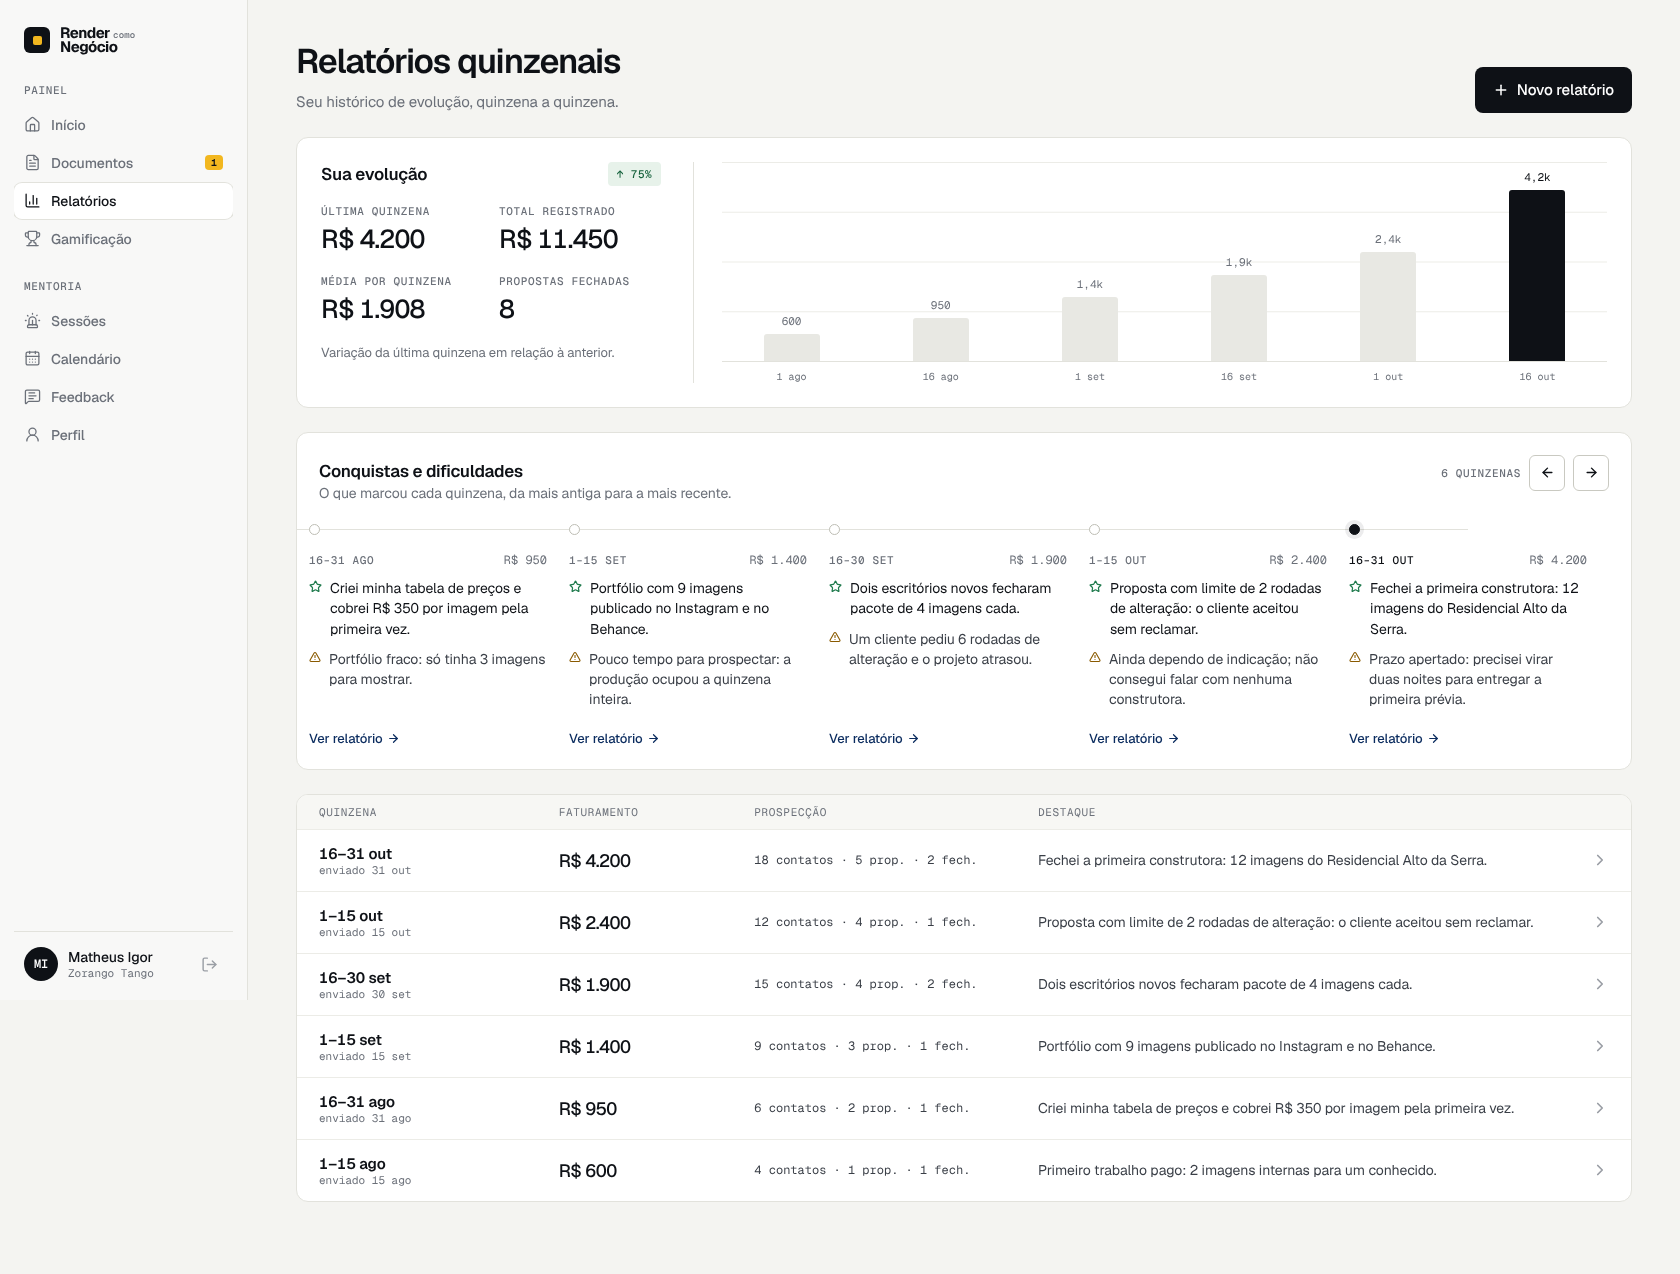
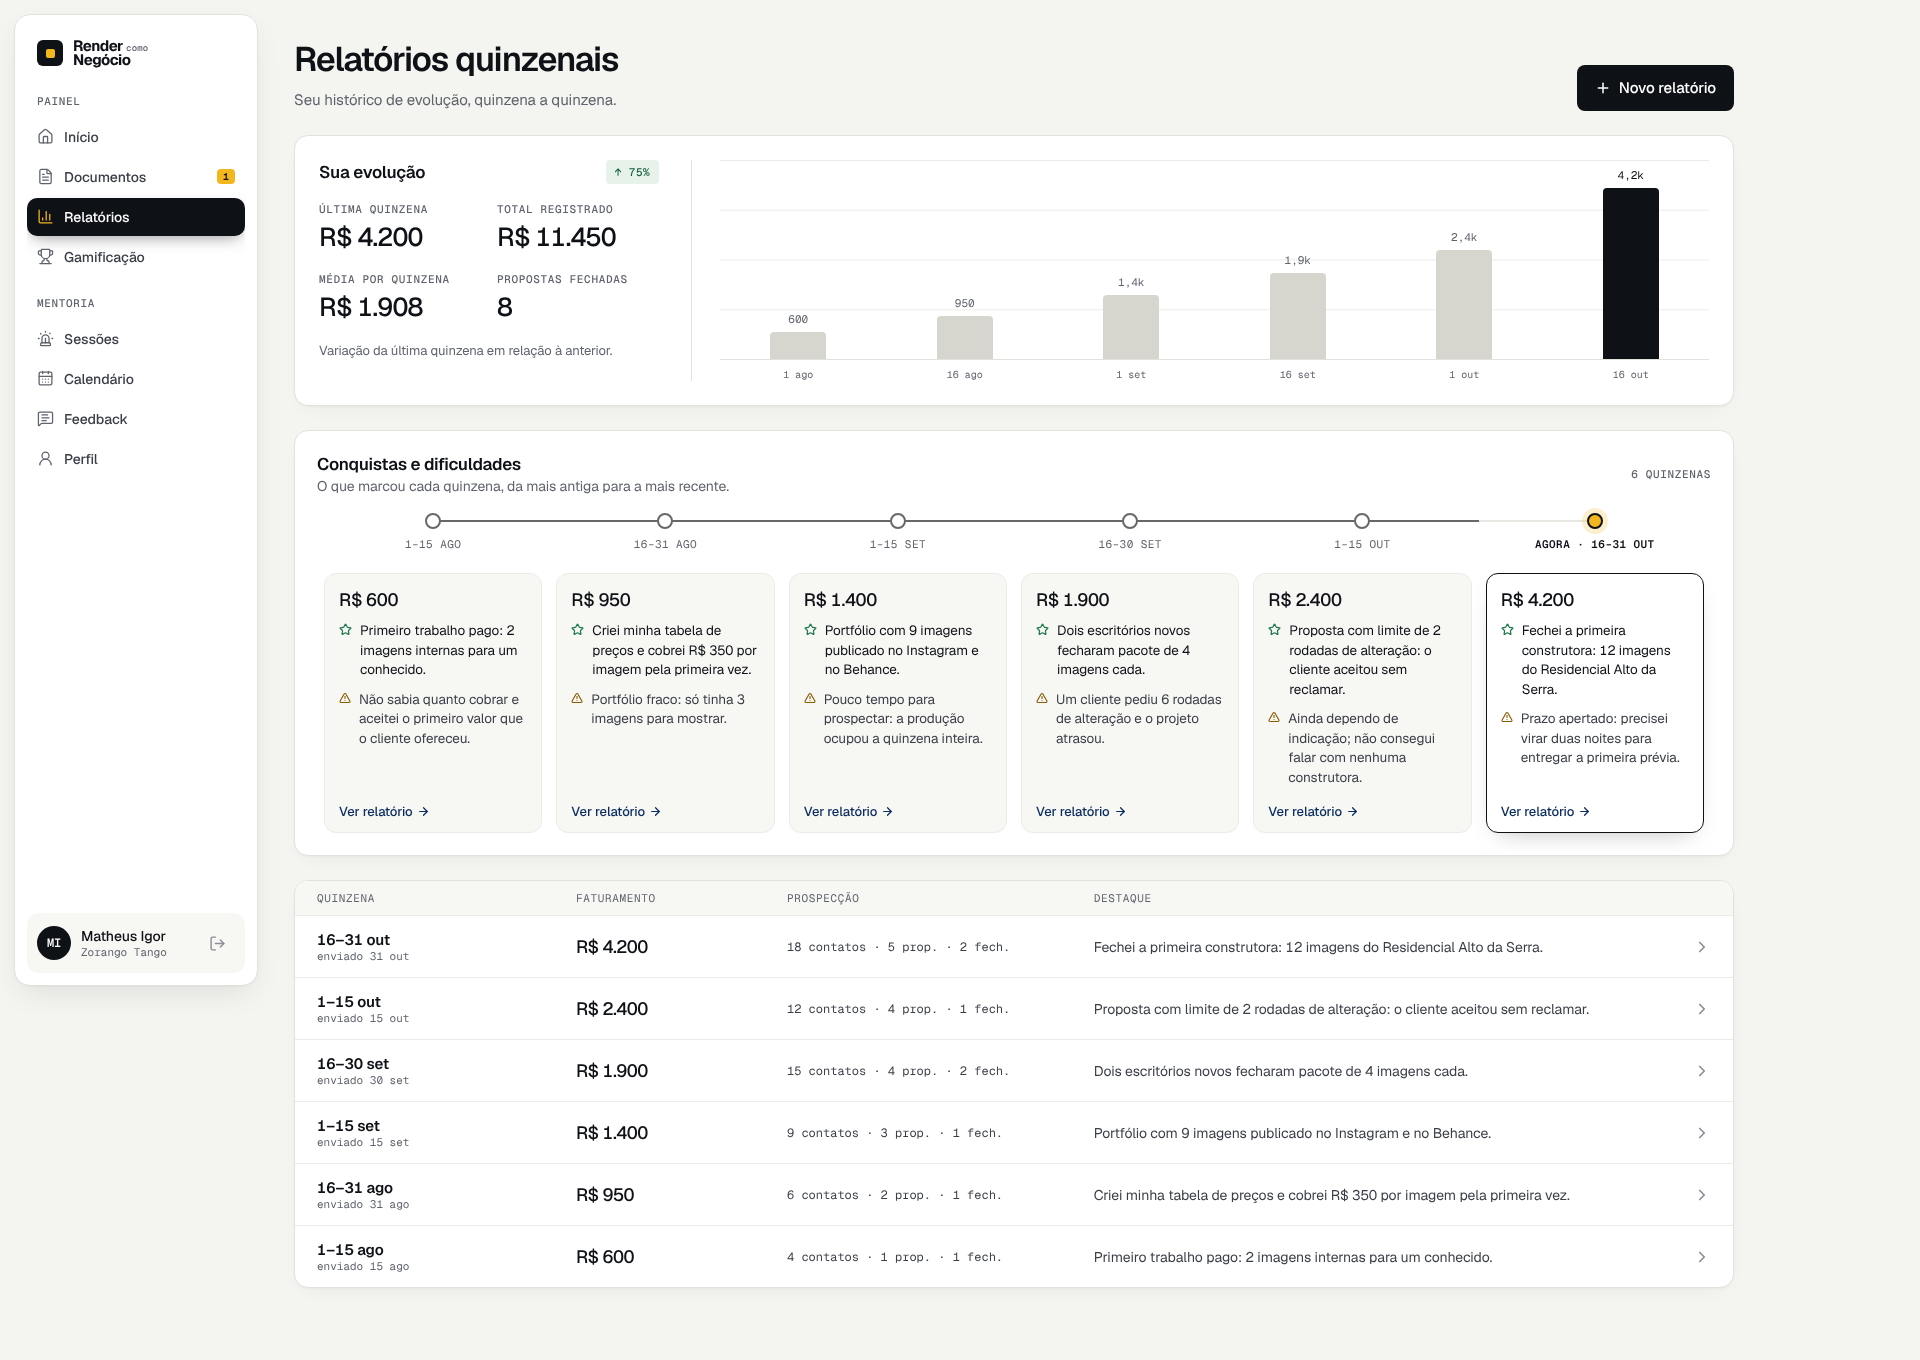
Menu lateral flutuante, cards com profundidade, contraste e nova linha do tempo horizontal
Claude-Session: https://claude.ai/code/session_01X1TqGYnSSrriidCVufAaPq

diff --git a/src/styles.css b/src/styles.css
@@ -26,8 +26,8 @@
 
   --t: #0E1116;
   --t2: #3A3F47;
-  --t3: #6B7079;
-  --t4: #9A9EA5;
+  --t3: #5E636C;
+  --t4: #8A8E96;
 
   --ok: #1E7A4C; --ok-bg: #E7F2EA; --ok-t: #14613B;
   --warn: #8A5A00; --warn-bg: #FBF1D9; --warn-t: #6B4600;
@@ -67,22 +67,27 @@ svg.lucide { flex: none; }
   .app.has-tabbar .page { padding-bottom: 104px; }
 }
 
-/* Menu lateral (computador) */
+/* Menu lateral (computador): painel flutuante, solto das bordas */
 .app.with-sidebar { flex-direction: row; }
 .sidebar {
-  width: 248px; flex: none; position: sticky; top: 0; height: 100vh; display: flex; flex-direction: column; gap: 28px;
-  padding: 22px 14px 16px; border-right: 1px solid var(--line); background: color-mix(in oklab, var(--bg) 60%, #fff);
+  width: 244px; flex: none; position: sticky; top: 14px; align-self: flex-start;
+  height: calc(100vh - 28px); margin: 14px 0 14px 14px;
+  display: flex; flex-direction: column; gap: 26px; padding: 20px 12px 12px;
+  background: #fff; border: 1px solid var(--line); border-radius: 16px;
+  box-shadow: 0 1px 2px rgba(14,17,22,.04), 0 12px 32px -8px rgba(14,17,22,.10);
 }
-.sidenav { display: flex; flex-direction: column; gap: 22px; flex: 1; overflow-y: auto; }
+.sidenav { display: flex; flex-direction: column; gap: 20px; flex: 1; overflow-y: auto; }
 .sidenav-group { display: flex; flex-direction: column; gap: 2px; }
-.sidenav-title { padding: 0 10px 8px; font-size: 10px; color: var(--t4); }
-.sidenav a { display: flex; align-items: center; gap: 10px; padding: 9px 10px; border-radius: var(--r); font-size: 14px; font-weight: 500; color: var(--t3); position: relative; transition: color .15s, background .15s; }
+.sidenav-title { padding: 0 10px 8px; font-size: 10px; color: var(--t3); }
+.sidenav a { display: flex; align-items: center; gap: 10px; padding: 10px 10px; border-radius: 10px; font-size: 14px; font-weight: 500; color: var(--t2); transition: color .15s, background .15s; }
+.sidenav a svg { color: var(--t3); transition: color .15s; }
 .sidenav a:hover { text-decoration: none; color: var(--t); background: var(--alt2); }
-.sidenav a.active { color: var(--t); background: #fff; box-shadow: 0 0 0 1px var(--line); }
-.sidenav a.active::before { content: ''; position: absolute; left: -14px; top: 9px; bottom: 9px; width: 2px; border-radius: 2px; background: var(--ink); }
-.sidebar-user { display: flex; align-items: center; gap: 10px; padding: 12px 6px 0 10px; border-top: 1px solid var(--line); }
+.sidenav a:hover svg { color: var(--t); }
+.sidenav a.active { color: #fff; background: var(--ink); box-shadow: 0 6px 16px -6px rgba(14,17,22,.5); }
+.sidenav a.active svg { color: var(--gold); }
+.sidebar-user { display: flex; align-items: center; gap: 10px; padding: 10px; border-radius: 12px; background: var(--alt); }
 /* Com o menu lateral, o conteúdo ocupa a largura toda */
-.with-sidebar .page { max-width: 1480px; padding: 44px 48px 72px; margin: 0; }
+.with-sidebar .page { max-width: 1520px; padding: 42px 44px 72px 36px; margin: 0; }
 
 /* Barra superior clara, com linha fina */
 .topbar {
@@ -153,7 +158,7 @@ svg.lucide { flex: none; }
 @media (max-width: 760px) { .h-page { font-size: 28px; } }
 
 /* ---------- Superfícies ---------- */
-.card { background: var(--surface); border: 1px solid var(--line); border-radius: var(--r-lg); padding: 20px; }
+.card { background: var(--surface); border: 1px solid var(--line); border-radius: 14px; padding: 20px; box-shadow: 0 1px 2px rgba(14,17,22,.03), 0 8px 24px -12px rgba(14,17,22,.08); }
 .card.tight { border-radius: var(--r-lg); padding: 16px; }
 .card.list { padding: 0 16px; border-radius: var(--r-lg); }
 .dashed { background: transparent; border: 1px dashed var(--b-dash); border-radius: var(--r-lg); padding: 36px 20px; display: flex; flex-direction: column; align-items: center; gap: 8px; text-align: center; }
@@ -169,6 +174,7 @@ a.card:hover, a.card-link:hover { text-decoration: none; border-color: var(--b-b
 
 /* Bloco de destaque: tinta escura com grade técnica sutil */
 .hero {
+  box-shadow: 0 16px 40px -16px rgba(14,17,22,.45);
   position: relative; overflow: hidden; color: #fff; text-decoration: none;
   background-color: var(--ink);
   background-image:
@@ -285,7 +291,7 @@ a.card:hover, a.card-link:hover { text-decoration: none; border-color: var(--b-b
   border-bottom: 1px solid var(--line);
 }
 .evo-col { flex: 1; min-width: 0; height: 100%; display: flex; flex-direction: column; align-items: center; justify-content: flex-end; gap: 6px; }
-.evo-bar { width: 100%; max-width: 56px; border-radius: 3px 3px 0 0; background: var(--alt3); transition: height .4s; }
+.evo-bar { width: 100%; max-width: 56px; border-radius: 4px 4px 0 0; background: #D6D6CE; transition: height .4s; }
 .evo-bar.now { background: var(--ink); }
 @media (max-width: 900px) {
   .evo { grid-template-columns: 1fr; gap: 22px; padding: 20px; }
@@ -306,17 +312,26 @@ a.rep-row:hover { text-decoration: none; background: var(--alt); }
   .rep-row > :nth-child(5) { display: none !important; }
 }
 
-.timeline-h { display: flex; overflow-x: auto; scroll-snap-type: x mandatory; scroll-padding-inline: 22px; padding: 22px 22px 14px; scrollbar-width: thin; }
+.timeline-h { overflow-x: auto; padding: 8px 22px 18px; scrollbar-width: thin; }
 .timeline-h:focus-visible { outline-offset: -2px; }
-.tl-col { flex: 1 0 260px; max-width: 360px; scroll-snap-align: start; display: flex; flex-direction: column; gap: 10px; padding-right: 22px; }
-.tl-rail { position: relative; height: 12px; margin-bottom: 6px; }
-.tl-rail::before { content: ''; position: absolute; left: 0; right: -22px; top: 5px; height: 1px; background: var(--line); }
-.tl-col:last-child .tl-rail::before { right: 50%; }
-.tl-dot { position: absolute; left: 0; top: 0; width: 11px; height: 11px; border-radius: 50%; background: #fff; border: 1.5px solid var(--b-dash); }
-.tl-col.now .tl-dot { background: var(--ink); border-color: var(--ink); box-shadow: 0 0 0 4px rgba(14,17,22,.08); }
-.tl-item { display: flex; gap: 8px; font-size: 14px; line-height: 1.45; }
+.tl-track { display: grid; grid-auto-flow: column; grid-auto-columns: minmax(205px, 1fr); }
+.tl-col { display: flex; flex-direction: column; padding: 0 7px; }
+/* Trilho: cada coluna desenha sua metade da linha, para ela ser contínua de ponto a ponto */
+.tl-node { position: relative; height: 42px; display: flex; flex-direction: column; align-items: center; justify-content: flex-start; }
+.tl-node::before { content: ''; position: absolute; top: 7px; left: -7px; right: -7px; height: 2px; background: var(--alt3); }
+.tl-col:first-child .tl-node::before { left: 50%; }
+.tl-col:last-child .tl-node::before { right: 50%; }
+.tl-col.past .tl-node::before { background: color-mix(in oklab, var(--ink) 55%, var(--alt3)); }
+.tl-dot { position: relative; z-index: 1; width: 16px; height: 16px; border-radius: 50%; background: #fff; border: 2px solid color-mix(in oklab, var(--ink) 55%, var(--alt3)); }
+.tl-col.now .tl-dot { background: var(--gold); border-color: var(--ink); box-shadow: 0 0 0 5px rgba(242,183,31,.22); }
+.tl-when { margin-top: 8px; font-family: var(--mono); font-size: 11px; letter-spacing: .04em; text-transform: uppercase; color: var(--t3); white-space: nowrap; }
+.tl-col.now .tl-when { color: var(--t); font-weight: 600; }
+.tl-card { flex: 1; margin-top: 18px; display: flex; flex-direction: column; gap: 10px; padding: 14px 14px 12px; border-radius: 12px; background: var(--alt); border: 1px solid var(--b-div); }
+.tl-col.now .tl-card { background: #fff; border-color: var(--ink); box-shadow: 0 10px 24px -14px rgba(14,17,22,.35); }
+.tl-rev { font-weight: 500; font-size: 18px; letter-spacing: -.02em; }
+.tl-item { display: flex; gap: 8px; font-size: 13.5px; line-height: 1.45; }
 .tl-item > span:first-child { flex: none; padding-top: 2px; display: flex; }
-@media (max-width: 760px) { .tl-col { flex-basis: 78%; } }
+@media (max-width: 760px) { .tl-track { grid-auto-columns: 76vw; } }
 
 @media (prefers-reduced-motion: reduce) {
   *, *::before, *::after { animation: none !important; transition: none !important; }

diff --git a/src/pages/Relatorios.tsx b/src/pages/Relatorios.tsx
@@ -61,8 +61,8 @@ export function Relatorios() {
                   <div className="mono" style={{ fontSize: 11, color: 'var(--t3)' }}>enviado {fmtDay(r.created_at, false)}</div>
                 </div>
                 <div className="evo-num" style={{ fontSize: 18, marginTop: 0 }}>{fmtBRL(r.revenue)}</div>
-                <div className="mono" style={{ fontSize: 12, color: 'var(--t2)' }}>
-                  {r.contacts} contatos · {r.proposals} prop. · {r.closed} fech.
+                <div className="mono" style={{ fontSize: 12, color: 'var(--t2)', whiteSpace: 'nowrap' }}>
+                  {r.contacts} cont. · {r.proposals} prop. · {r.closed} fech.
                 </div>
                 <div style={{ fontSize: 14, color: 'var(--t2)', overflow: 'hidden', textOverflow: 'ellipsis', whiteSpace: 'nowrap', minWidth: 0 }}>{r.wins || '—'}</div>
                 <div style={{ color: 'var(--t4)', display: 'flex', justifyContent: 'flex-end' }}>
@@ -82,59 +82,76 @@ export function Relatorios() {
 function Journey({ reps }: { reps: Report[] }) {
   const items = reps.filter((r) => r.wins || r.struggles).slice(0, 12).reverse();
   const scroller = useRef<HTMLDivElement>(null);
-  // Começa mostrando a quinzena mais recente (fim da linha).
+  const [overflow, setOverflow] = useState(false);
+  // Se não couber tudo, começa mostrando a quinzena mais recente e liga as setas.
   useEffect(() => {
     const el = scroller.current;
-    if (el) el.scrollLeft = el.scrollWidth;
+    if (!el) return;
+    const check = () => {
+      const o = el.scrollWidth > el.clientWidth + 2;
+      setOverflow(o);
+      if (o) el.scrollLeft = el.scrollWidth;
+    };
+    check();
+    window.addEventListener('resize', check);
+    return () => window.removeEventListener('resize', check);
   }, [items.length]);
   if (!items.length) return null;
+  const step = (dir: number) => scroller.current?.scrollBy({ left: dir * 260, behavior: 'smooth' });
+
   return (
-    <div className="card" style={{ padding: '22px 0 8px' }}>
-      <div className="between" style={{ alignItems: 'baseline', padding: '0 22px', flexWrap: 'wrap' }}>
+    <div className="card" style={{ padding: '22px 0 4px' }}>
+      <div className="between" style={{ alignItems: 'center', padding: '0 22px 10px', flexWrap: 'wrap' }}>
         <div>
           <div className="h-card">Conquistas e dificuldades</div>
           <div style={{ fontSize: 14, color: 'var(--t3)', marginTop: 2 }}>O que marcou cada quinzena, da mais antiga para a mais recente.</div>
         </div>
         <div className="row" style={{ gap: 8 }}>
           <span className="label">{items.length} quinzenas</span>
-          <button className="btn btn-secondary btn-sm" style={{ width: 36, padding: 0 }} aria-label="Quinzenas anteriores" onClick={() => scroller.current?.scrollBy({ left: -300, behavior: 'smooth' })}>
-            <Mark m="←" size={15} />
-          </button>
-          <button className="btn btn-secondary btn-sm" style={{ width: 36, padding: 0 }} aria-label="Quinzenas seguintes" onClick={() => scroller.current?.scrollBy({ left: 300, behavior: 'smooth' })}>
-            <Mark m="→" size={15} />
-          </button>
+          {overflow && (
+            <>
+              <button className="btn btn-secondary btn-sm" style={{ width: 34, padding: 0 }} aria-label="Quinzenas anteriores" onClick={() => step(-1)}>
+                <Mark m="←" size={15} />
+              </button>
+              <button className="btn btn-secondary btn-sm" style={{ width: 34, padding: 0 }} aria-label="Quinzenas seguintes" onClick={() => step(1)}>
+                <Mark m="→" size={15} />
+              </button>
+            </>
+          )}
         </div>
       </div>
-      <div ref={scroller} className="timeline-h" tabIndex={0} aria-label="Linha do tempo de conquistas e dificuldades">
-        {items.map((r, i) => {
-          const last = i === items.length - 1;
-          return (
-            <div key={r.id} className={'tl-col' + (last ? ' now' : '')}>
-              <div className="tl-rail">
-                <span className="tl-dot" />
-              </div>
-              <div className="between" style={{ alignItems: 'baseline', gap: 8 }}>
-                <div className="label" style={{ color: last ? 'var(--t)' : undefined }}>{fmtPeriod(r.period_start, r.period_end)}</div>
-                <div className="mono" style={{ fontSize: 12, color: 'var(--t3)' }}>{fmtBRL(r.revenue)}</div>
-              </div>
-              {r.wins && (
-                <div className="tl-item">
-                  <span style={{ color: 'var(--ok)' }}><Mark m="★" size={13} /></span>
-                  <span>{r.wins}</span>
+      <div ref={scroller} className="timeline-h" tabIndex={overflow ? 0 : -1} aria-label="Linha do tempo de conquistas e dificuldades">
+        <div className="tl-track">
+          {items.map((r, i) => {
+            const last = i === items.length - 1;
+            return (
+              <div key={r.id} className={'tl-col' + (last ? ' now' : ' past')}>
+                <div className="tl-node">
+                  <span className="tl-dot" />
+                  <span className="tl-when">{last ? 'Agora · ' : ''}{fmtPeriod(r.period_start, r.period_end)}</span>
                 </div>
-              )}
-              {r.struggles && (
-                <div className="tl-item" style={{ color: 'var(--t2)' }}>
-                  <span style={{ color: 'var(--warn)' }}><Mark m="!" size={13} /></span>
-                  <span>{r.struggles}</span>
+                <div className="tl-card">
+                  <div className="tl-rev">{fmtBRL(r.revenue)}</div>
+                  {r.wins && (
+                    <div className="tl-item">
+                      <span style={{ color: 'var(--ok)' }}><Mark m="★" size={13} /></span>
+                      <span>{r.wins}</span>
+                    </div>
+                  )}
+                  {r.struggles && (
+                    <div className="tl-item" style={{ color: 'var(--t2)' }}>
+                      <span style={{ color: 'var(--warn)' }}><Mark m="!" size={13} /></span>
+                      <span>{r.struggles}</span>
+                    </div>
+                  )}
+                  <Link to={`/relatorios/${r.id}`} className="link" style={{ marginTop: 'auto', paddingTop: 6, fontSize: 13 }}>
+                    Ver relatório <Mark m="→" size={13} />
+                  </Link>
                 </div>
-              )}
-              <Link to={`/relatorios/${r.id}`} className="link" style={{ marginTop: 'auto', paddingTop: 10, fontSize: 13 }}>
-                Ver relatório <Mark m="→" size={13} />
-              </Link>
-            </div>
-          );
-        })}
+              </div>
+            );
+          })}
+        </div>
       </div>
     </div>
   );
